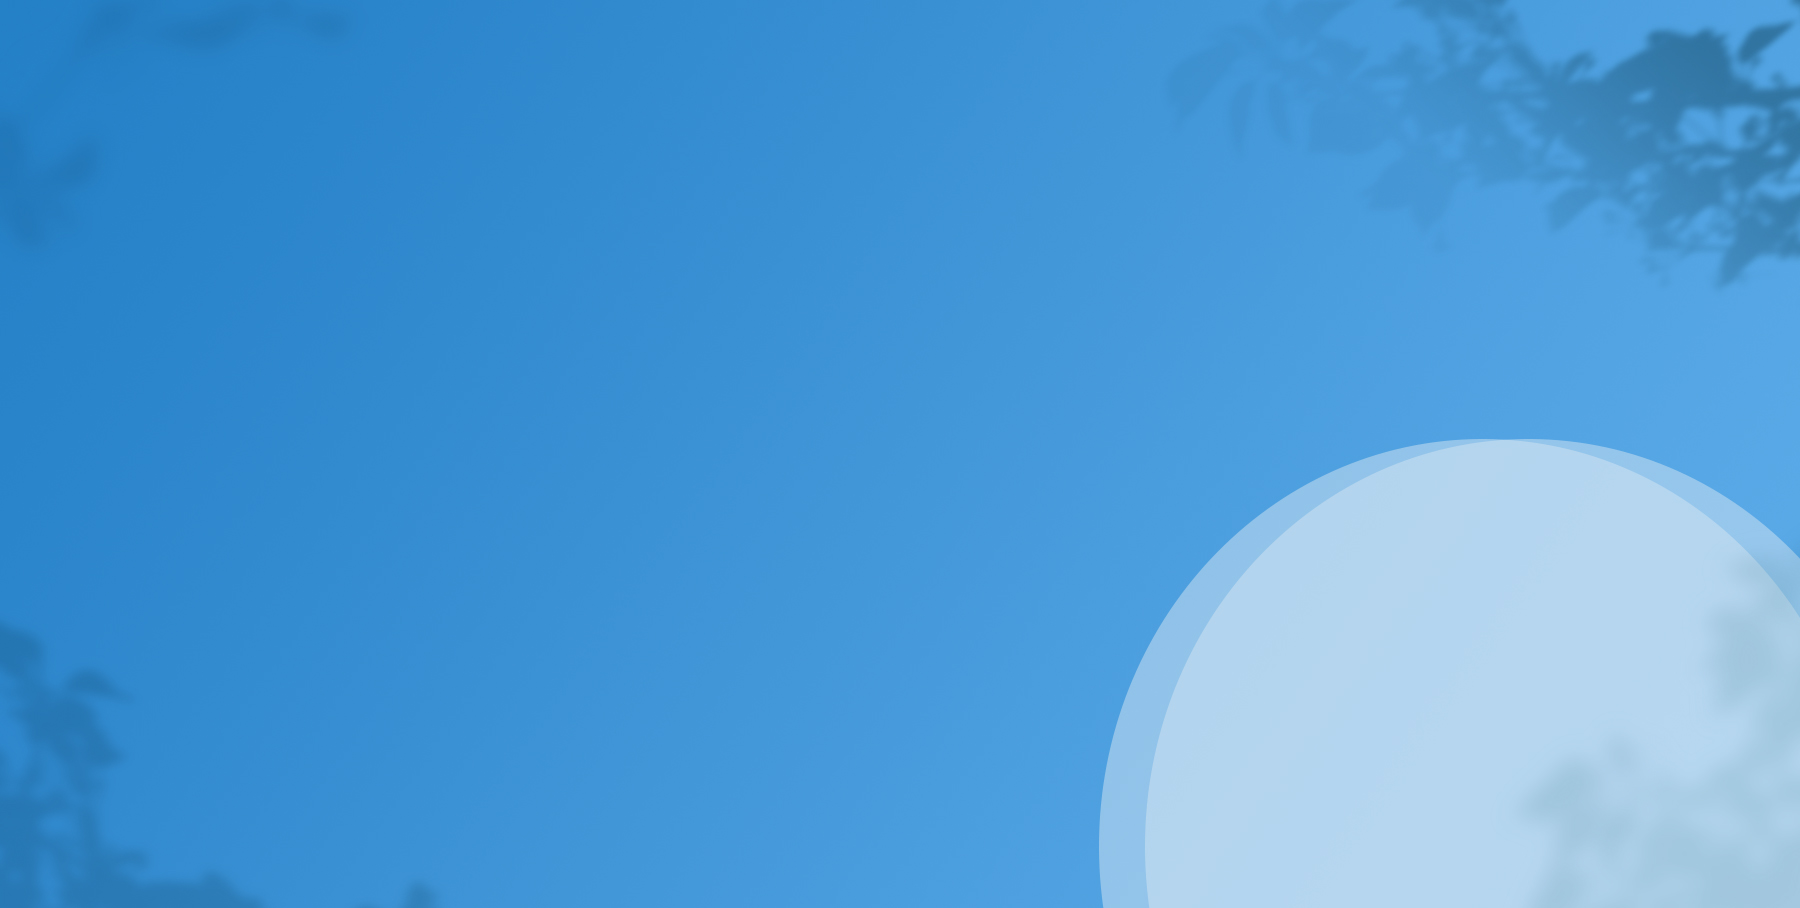
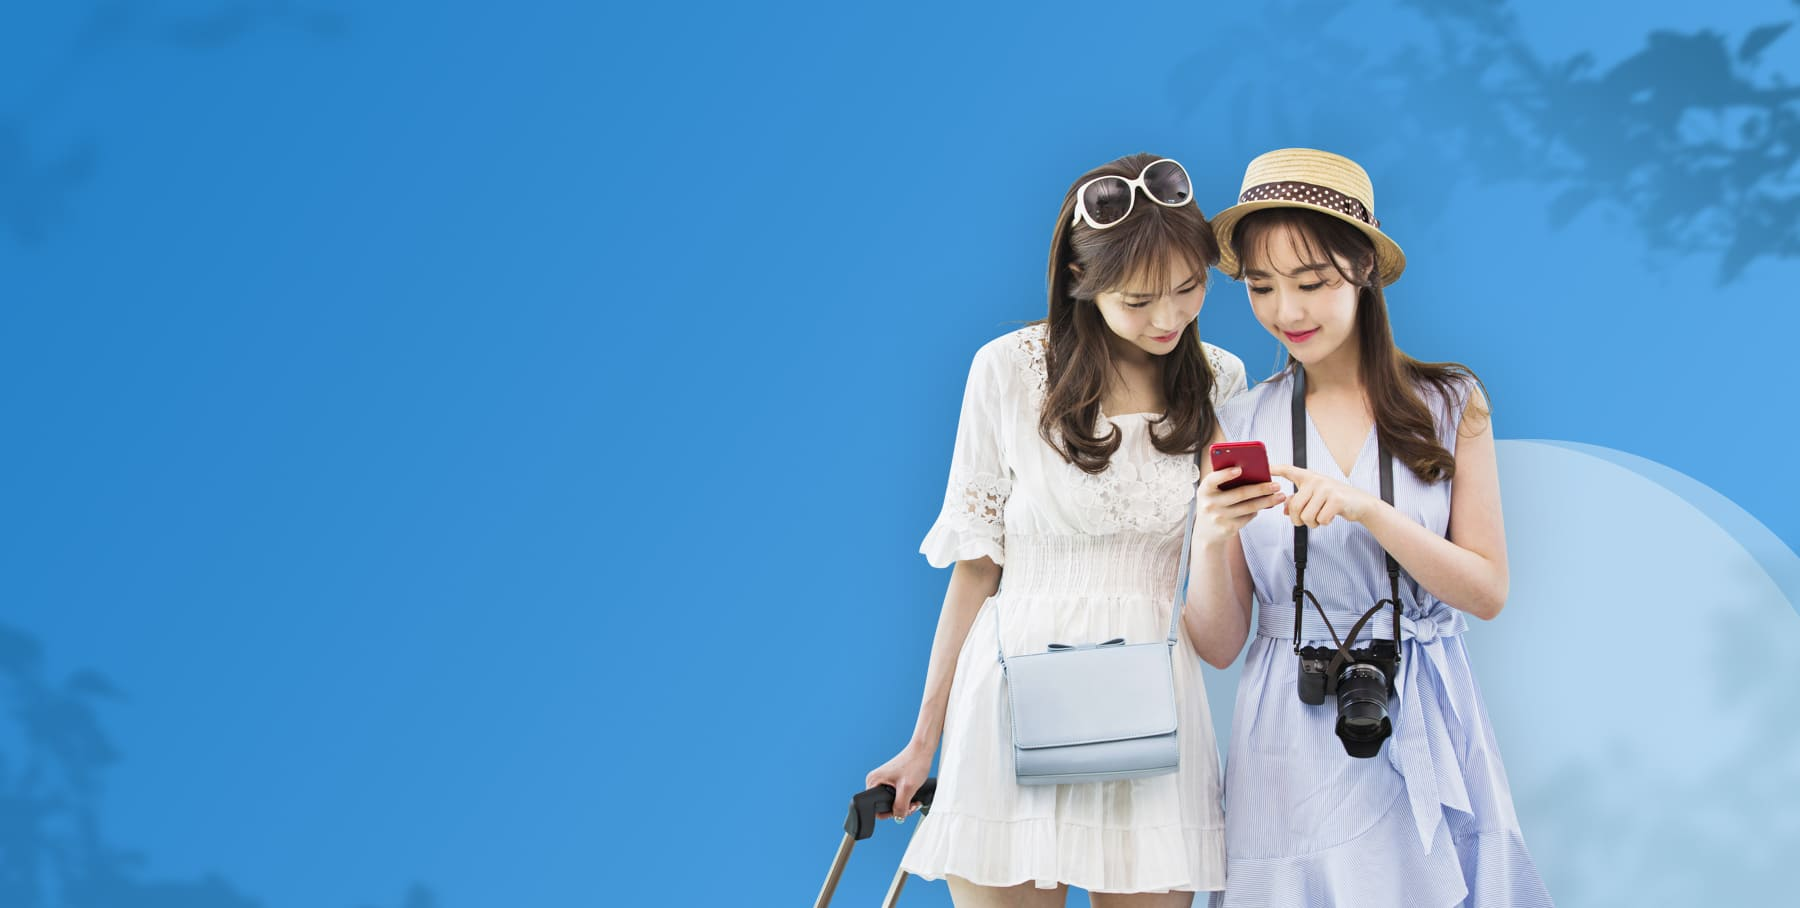
no message

Changed region(s): [[0.4356, 0.1542, 0.8711, 1.0]]

diff --git a/css/slider.css b/css/slider.css
@@ -1,19 +1,21 @@
-.JDslider {
+/* Slider_box */
+
+.Slider_box {
 	position: relative;
 	overflow: hidden;
 }
 
-.JDslider--unDisplayArrow .slick-arrow {
+.Slider_box--unDisplayArrow .slick-arrow {
 	display: none !important;
 }
 
-.JDslider .slick-arrow {
+.Slider_box .slick-arrow {
 	z-index: 10;
 	position: absolute;
 	top: calc(50% - 1.8rem);
 }
 
-.JDslider .slick-next {
+.Slider_box .slick-next {
 	right: 2%;
 }
 
@@ -28,40 +30,57 @@
 	outline: 0;
 }
 
-.JDslider .slick-arrow {
+.Slider_box .slick-arrow {
 	margin: 0;
 }
 
-.JDslider .circleIcon-Wrap {
+.Slider_box .circleIcon-Wrap {
 	position: absolute;
 	top: calc(50% - (2rem + 10px + 15px) / 2);
 	z-index: 9;
 }
 
-.JDslider .circleIcon-Wrap:first-child {
+.Slider_box .circleIcon-Wrap:first-child {
 	left: 2%;
 	transform: scaleX(-1);
 }
 
-.JDslider .circleIcon-Wrap:first-child ~ .circleIcon-Wrap {
+.Slider_box .circleIcon-Wrap:first-child ~ .circleIcon-Wrap {
 	right: 2%;
 }
 
-.JDslider .slick-list {
+.Slider_box .slick-list {
 	margin: 0;
 }
+.Slider_box .slick-prev img,.Slider_box .slick-next img{
+	width: 50px;
+	height: 50px;
 
-.JDslider .slick-list .slick-slide {
+}
+.Slider_box .slick-prev{
+    top: 50%;
+	left: 3%;
+	position: absolute;
+	cursor: pointer;
+	transform: rotate(-180deg);
+}
+.Slider_box .slick-next{
+    top: 50%;
+	right: 3%;
+	position: absolute;
+    cursor: pointer;
+}
+.Slider_box .slick-list .slick-slide {
 	float: left;
 }
 
-.JDslider .slick-list .slick-track:after {
+.Slider_box .slick-list .slick-track:after {
 	display: block;
 	clear: both;
 	content: "";
 }
 
-.JDslider .JDslider__dots {
+.Slider_box .JDslider__dots {
 	display: flex !important;
 	width: 100%;
 	justify-content: center;
@@ -70,7 +89,7 @@
 	margin: 0;
 }
 
-.JDslider .JDslider__dots li {
+.Slider_box .JDslider__dots li {
 	border-radius: 100%;
 	cursor: pointer;
 	position: relative;
@@ -79,7 +98,7 @@
 	padding: 0;
 }
 
-.JDslider .JDslider__dots li button {
+.Slider_box .JDslider__dots li button {
 	font-size: 0;
 	line-height: 0;
 	display: block;
@@ -90,7 +109,7 @@
 	background: transparent;
 }
 
-.JDslider .JDslider__dots li button:before {
+.Slider_box .JDslider__dots li button:before {
 	content: "";
 	background-color: #bebebe;
 	position: absolute;
@@ -104,11 +123,11 @@
 	-webkit-font-smoothing: antialiased;
 }
 
-.JDslider .JDslider__dots li button:hover:before {
+/* .JDslider .JDslider__dots li button:hover:before {
 	background-color: #595959;
-}
+} */
 
-.JDslider .JDslider__dots li.slick-active button {
+.Slider_box .JDslider__dots li.slick-active button {
 	font-size: 0;
 	line-height: 0;
 	display: block;
@@ -119,6 +138,6 @@
 	height: 10px;
 }
 
-.JDslider .JDslider__dots li.slick-active button:before {
+/* .JDslider .JDslider__dots li.slick-active button:before {
 	background-color: #555;
-}
+} */

diff --git a/pages/index.tsx b/pages/index.tsx
@@ -22,7 +22,55 @@ export const Main: React.FC = () => {
 
   return <div className="body main" id="main" >
     <Meta title="메인페이지" description="ㅁㄴㅇㄴ" />
-    <div className="main_con_box1">
+    <div className="main_con_box1 Slider_box">
+
+      <Slider
+        autoplay
+        prevArrow={<div className="rev"><img src="/img/svg/arr_right_w.svg" alt="이전" /></div>}
+        nextArrow={<div className="next"><img src="/img/svg/arr_right_w.svg" alt="다음" /></div>}
+        arrows={true}
+        dots={false}
+        infinite={true}
+        className="">
+        <div
+          className="main_top_images img1"
+          style={{ ...bg("m_01_mainBg") }}
+        >
+          {/* <Upload onUpload={imgEdit("m_01_mainBg")} /> */}
+          <div className="w1200">
+            <strong {...edit("m_01_title")} />
+            <span {...edit('m_01_subtitle')}>
+            </span>
+            <div className="btn_list">
+              <Link href="/guide">
+                <a className="tourLink" {...edit("m_01_mainLink1")} />
+              </Link>
+              <Link href="/tour">
+                <a  {...edit("m_01_mainLink2")} />
+              </Link>
+            </div>
+          </div>
+        </div>
+        <div
+          className="main_top_images img2"
+          style={{ ...bg("m_01_mainBg2") }}
+        >
+          {/* <Upload onUpload={imgEdit("m_01_mainBg")} /> */}
+          <div className="w1200">
+            <strong {...edit("m_01_title2")} />
+            <span {...edit('m_01_subtitle2')}>
+            </span>
+            <div className="btn_list">
+              <Link href="/member/join">
+                <a className="tourLink" {...edit("m_01_mainLink2_1")} />
+              </Link>
+            </div>
+          </div>
+        </div>
+
+      </Slider>
+    </div>
+    {/* <div className="main_con_box1">
       <div
         className="main_top_images"
         style={{ ...bg("m_01_mainBg") }}
@@ -44,7 +92,7 @@ export const Main: React.FC = () => {
         </div>
 
       </div>
-    </div>
+    </div> */}
     <div className="main_con_box2">
       <div className="w1200">
         <div className="top_txt">
@@ -65,27 +113,6 @@ export const Main: React.FC = () => {
 
     </div>
 
-    <Slider
-      autoplay
-      prevArrow={<div>이전</div>}
-      nextArrow={<div>다음</div>}
-      arrows={true}
-      dots={false}
-      infinite={true}
-      className="">
-      <div>
-        1
-      </div>
-      <div>
-        2
-      </div>
-      <div>
-        3
-        </div>
-      <div>
-        4
-        </div>
-    </Slider>
 
     <div className="main_con_box3">
       <div className="w1200">

diff --git a/css/style_janda_sh.css b/css/style_janda_sh.css
@@ -117,6 +117,10 @@
     min-height: 670px;
     width: 100%;
     position:relative;
+    background-image: url(/its/main_top_bg.jpg);
+}
+.main_con_box1 .main_top_images.img2 {
+    background-image: url(/its/main_top_bg2.jpg);
 }
    
 .main_con_box1 .w1200 {
@@ -10251,7 +10255,7 @@ div.alignment .right_div {
 @media (min-width: 1300px) {
     .main_con_box1 .main_top_images strong {
         padding-left: 0;
-        width: 50%;
+        width: 100%;
     }
     .main_con_box1 .main_top_images span {
         padding-left: 0;
@@ -10271,7 +10275,7 @@ div.alignment .right_div {
         width: 90%;
     }
     .main_con_box1 .main_top_images {
-        background-size: 140%;
+        background-size: 102%;
         min-height: 800px;
         background-position: -10px center;
     }

diff --git a/info/main.json.ts b/info/main.json.ts
@@ -15,6 +15,18 @@ const info = {
     m_01_mainLink2: {
         kr: `It's가이드`,
     },
+    m_01_title2: {
+        kr: `가이드를 위한<br/>가이드에 의한<br/>가이드플랫폼`,
+    },
+    m_01_subtitle2: {
+        kr: `지금 가이드를 등록하세요.`
+    },
+    m_01_mainBg2: {
+        kr: `/its/main_top_bg2.jpg`,
+    },
+    m_01_mainLink2_1: {
+        kr: `가이드 등록하기`,
+    },
     m_02_title: {
         kr: `등록된 가이드`,
     },

diff --git a/css/layout.css b/css/layout.css
@@ -22,8 +22,6 @@ i.tooltip{
     font-weight: 100;
 }
 
-
-
 /* 별점디자인-Rating Star Widgets Style */
 .rating-stars ul {
     list-style-type: none;
